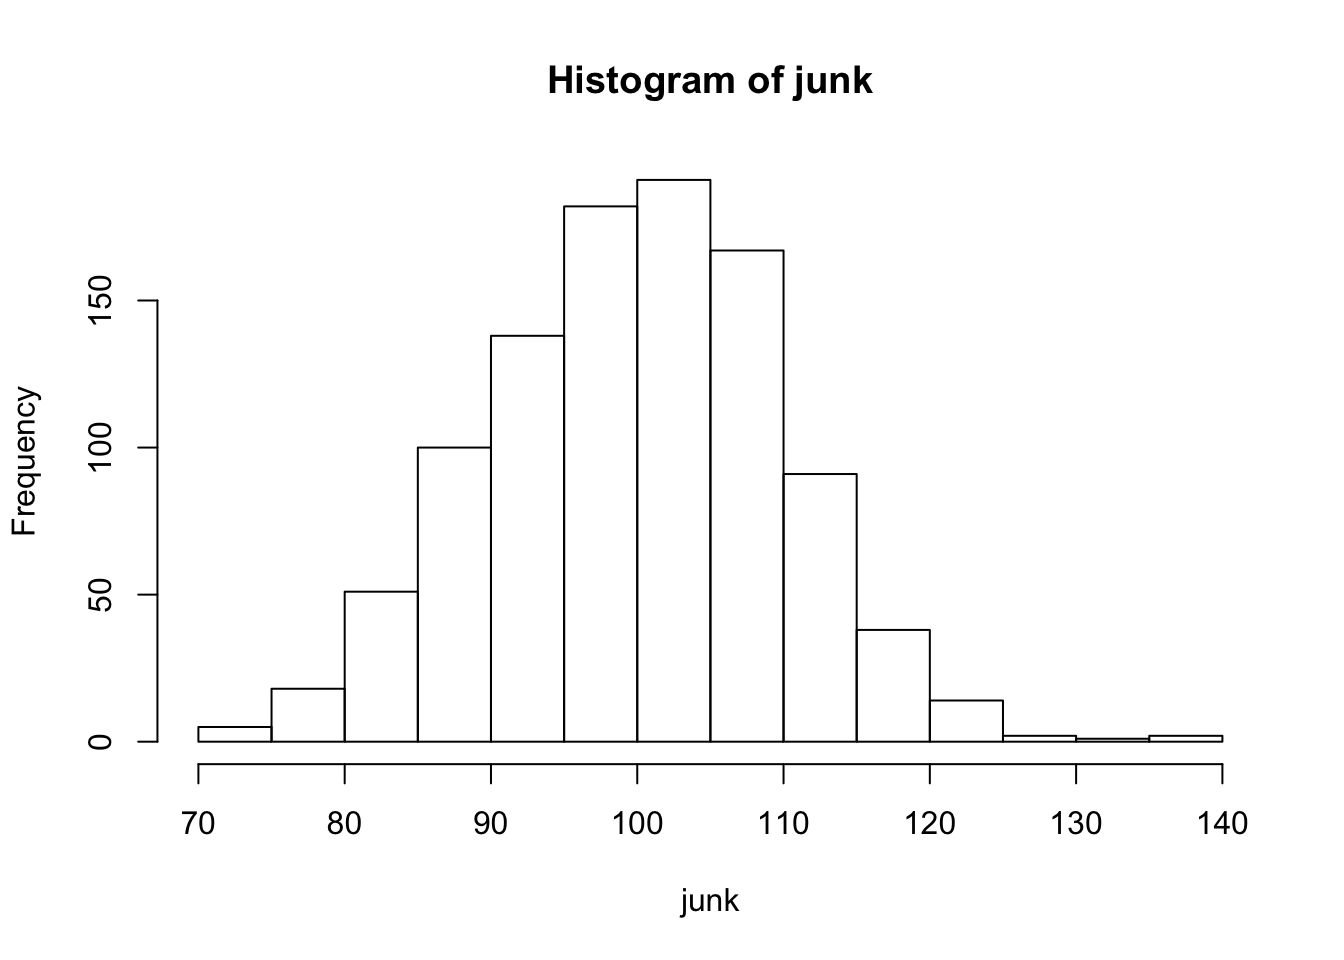
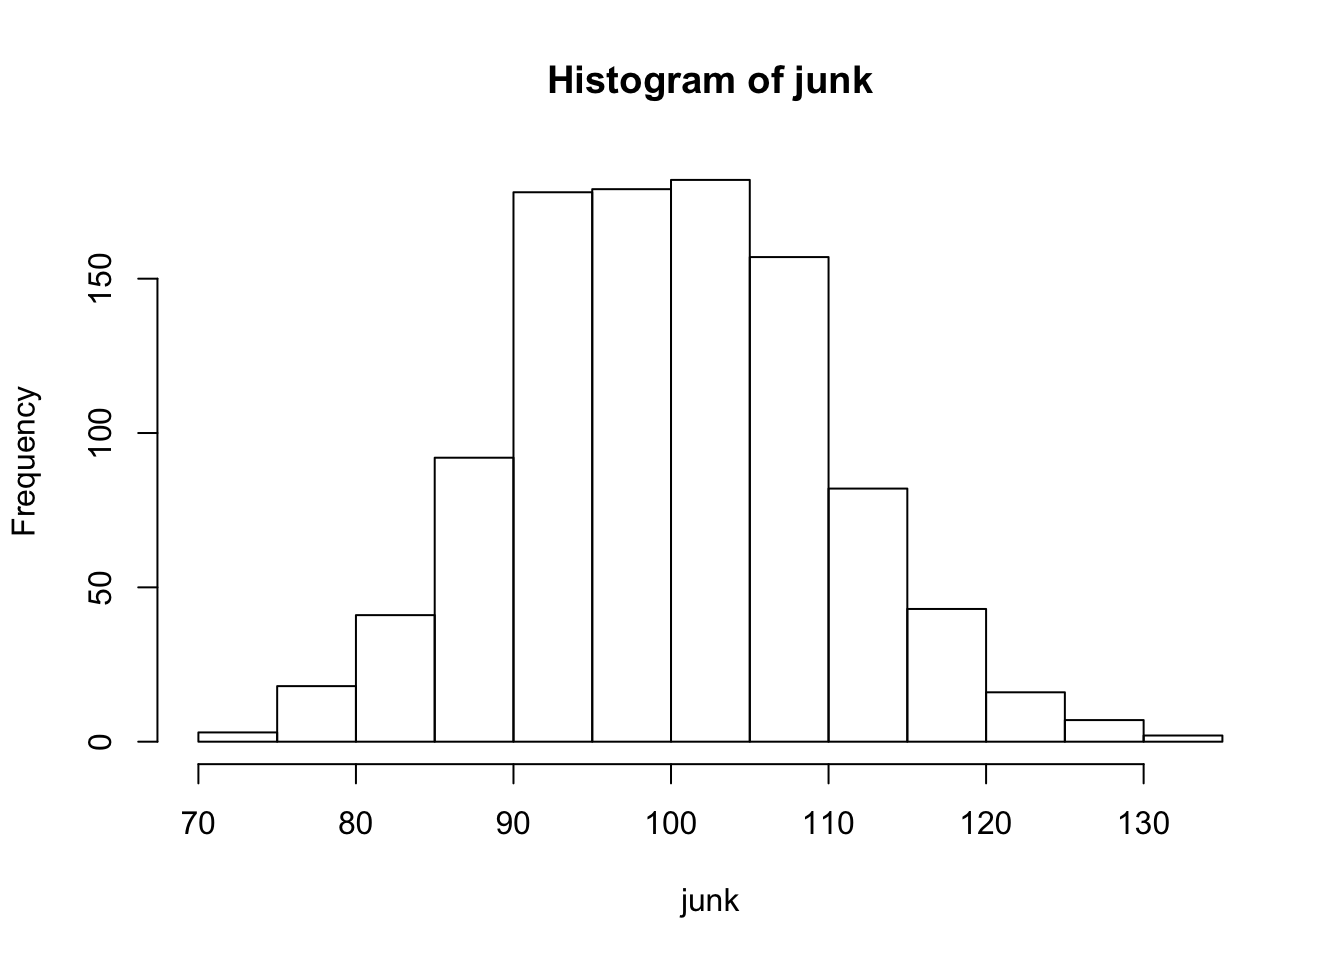
tweaks

diff --git a/docs/2017/02/24/junk/index.html b/docs/2017/02/24/junk/index.html
@@ -6,8 +6,8 @@
 <meta name="generator" content="Hugo 0.18.1" />
 
 
-<title>Junk - Lithium Theme</title>
-<meta property="og:title" content="Junk - Lithium Theme">
+<title>Junk - Alan&#39;s WebPage</title>
+<meta property="og:title" content="Junk - Alan&#39;s WebPage">
 
 
 
@@ -35,8 +35,8 @@
       <header class="header">
         <nav class="nav">
   <a href="../../../../" class="nav-logo">
-    <img src="../../../../images/logo.png"
-         width="50"
+    <img src="../../../../images/Alan.png"
+         width="40"
          height="50"
          alt="Logo">
   </a>
@@ -71,9 +71,9 @@
     <div class="article-content">
       <pre class="r"><code>junk &lt;- rnorm(1000, 100, 10)
 mean(junk)</code></pre>
-<pre><code>## [1] 99.88449</code></pre>
+<pre><code>## [1] 99.9047</code></pre>
 <pre class="r"><code>sd(junk)</code></pre>
-<pre><code>## [1] 10.00316</code></pre>
+<pre><code>## [1] 9.912678</code></pre>
 <pre class="r"><code>hist(junk)</code></pre>
 <p><img src="../../../../post/2017-02-24-junk_files/figure-html/unnamed-chunk-1-1.png" width="672" /></p>
 

diff --git a/docs/tags/r-markdown/index.html b/docs/tags/r-markdown/index.html
@@ -6,8 +6,8 @@
 <meta name="generator" content="Hugo 0.18.1" />
 
 
-<title>R Markdown - Lithium Theme</title>
-<meta property="og:title" content="R Markdown - Lithium Theme">
+<title>R Markdown - Alan&#39;s WebPage</title>
+<meta property="og:title" content="R Markdown - Alan&#39;s WebPage">
 
 
 
@@ -17,7 +17,7 @@
 
 
 
-<link href="../../tags/r-markdown/index.xml" rel="alternate" type="application/rss+xml" title="Lithium Theme" />
+<link href="../../tags/r-markdown/index.xml" rel="alternate" type="application/rss+xml" title="Alan&#39;s WebPage" />
 
 
 
@@ -32,8 +32,8 @@
       <header class="header">
         <nav class="nav">
   <a href="../../" class="nav-logo">
-    <img src="../../images/logo.png"
-         width="50"
+    <img src="../../images/Alan.png"
+         width="40"
          height="50"
          alt="Logo">
   </a>

diff --git a/docs/tags/regression/index.html b/docs/tags/regression/index.html
@@ -6,8 +6,8 @@
 <meta name="generator" content="Hugo 0.18.1" />
 
 
-<title>Regression - Lithium Theme</title>
-<meta property="og:title" content="Regression - Lithium Theme">
+<title>Regression - Alan&#39;s WebPage</title>
+<meta property="og:title" content="Regression - Alan&#39;s WebPage">
 
 
 
@@ -17,7 +17,7 @@
 
 
 
-<link href="../../tags/regression/index.xml" rel="alternate" type="application/rss+xml" title="Lithium Theme" />
+<link href="../../tags/regression/index.xml" rel="alternate" type="application/rss+xml" title="Alan&#39;s WebPage" />
 
 
 
@@ -32,8 +32,8 @@
       <header class="header">
         <nav class="nav">
   <a href="../../" class="nav-logo">
-    <img src="../../images/logo.png"
-         width="50"
+    <img src="../../images/Alan.png"
+         width="40"
          height="50"
          alt="Logo">
   </a>

diff --git a/docs/tags/plot/index.html b/docs/tags/plot/index.html
@@ -6,8 +6,8 @@
 <meta name="generator" content="Hugo 0.18.1" />
 
 
-<title>Plot - Lithium Theme</title>
-<meta property="og:title" content="Plot - Lithium Theme">
+<title>Plot - Alan&#39;s WebPage</title>
+<meta property="og:title" content="Plot - Alan&#39;s WebPage">
 
 
 
@@ -17,7 +17,7 @@
 
 
 
-<link href="../../tags/plot/index.xml" rel="alternate" type="application/rss+xml" title="Lithium Theme" />
+<link href="../../tags/plot/index.xml" rel="alternate" type="application/rss+xml" title="Alan&#39;s WebPage" />
 
 
 
@@ -32,8 +32,8 @@
       <header class="header">
         <nav class="nav">
   <a href="../../" class="nav-logo">
-    <img src="../../images/logo.png"
-         width="50"
+    <img src="../../images/Alan.png"
+         width="40"
          height="50"
          alt="Logo">
   </a>

diff --git a/docs/categories/r/index.html b/docs/categories/r/index.html
@@ -6,8 +6,8 @@
 <meta name="generator" content="Hugo 0.18.1" />
 
 
-<title>R - Lithium Theme</title>
-<meta property="og:title" content="R - Lithium Theme">
+<title>R - Alan&#39;s WebPage</title>
+<meta property="og:title" content="R - Alan&#39;s WebPage">
 
 
 
@@ -17,7 +17,7 @@
 
 
 
-<link href="../../categories/r/index.xml" rel="alternate" type="application/rss+xml" title="Lithium Theme" />
+<link href="../../categories/r/index.xml" rel="alternate" type="application/rss+xml" title="Alan&#39;s WebPage" />
 
 
 
@@ -32,8 +32,8 @@
       <header class="header">
         <nav class="nav">
   <a href="../../" class="nav-logo">
-    <img src="../../images/logo.png"
-         width="50"
+    <img src="../../images/Alan.png"
+         width="40"
          height="50"
          alt="Logo">
   </a>

diff --git a/docs/post/index.html b/docs/post/index.html
@@ -6,8 +6,8 @@
 <meta name="generator" content="Hugo 0.18.1" />
 
 
-<title>Posts - Lithium Theme</title>
-<meta property="og:title" content="Posts - Lithium Theme">
+<title>Posts - Alan&#39;s WebPage</title>
+<meta property="og:title" content="Posts - Alan&#39;s WebPage">
 
 
 
@@ -17,7 +17,7 @@
 
 
 
-<link href="../post/index.xml" rel="alternate" type="application/rss+xml" title="Lithium Theme" />
+<link href="../post/index.xml" rel="alternate" type="application/rss+xml" title="Alan&#39;s WebPage" />
 
 
 
@@ -32,8 +32,8 @@
       <header class="header">
         <nav class="nav">
   <a href="../" class="nav-logo">
-    <img src="../images/logo.png"
-         width="50"
+    <img src="../images/Alan.png"
+         width="40"
          height="50"
          alt="Logo">
   </a>

diff --git a/docs/index.html b/docs/index.html
@@ -6,8 +6,8 @@
 <meta name="generator" content="Hugo 0.18.1" />
 
 
-<title>Lithium Theme</title>
-<meta property="og:title" content="Lithium Theme">
+<title>Alan&#39;s WebPage</title>
+<meta property="og:title" content="Alan&#39;s WebPage">
 <meta property="og:type" content="website">
 
 
@@ -18,7 +18,7 @@
 
 
 
-<link href="./index.xml" rel="alternate" type="application/rss+xml" title="Lithium Theme" />
+<link href="./index.xml" rel="alternate" type="application/rss+xml" title="Alan&#39;s WebPage" />
 
 
 
@@ -33,8 +33,8 @@
       <header class="header">
         <nav class="nav">
   <a href="./" class="nav-logo">
-    <img src="./images/logo.png"
-         width="50"
+    <img src="./images/Alan.png"
+         width="40"
          height="50"
          alt="Logo">
   </a>

diff --git a/docs/2016/12/30/a-plain-markdown-post/index.html b/docs/2016/12/30/a-plain-markdown-post/index.html
@@ -6,8 +6,8 @@
 <meta name="generator" content="Hugo 0.18.1" />
 
 
-<title>A Plain Markdown Post - Lithium Theme</title>
-<meta property="og:title" content="A Plain Markdown Post - Lithium Theme">
+<title>A Plain Markdown Post - Alan&#39;s WebPage</title>
+<meta property="og:title" content="A Plain Markdown Post - Alan&#39;s WebPage">
 
 
 
@@ -35,8 +35,8 @@
       <header class="header">
         <nav class="nav">
   <a href="../../../../" class="nav-logo">
-    <img src="../../../../images/logo.png"
-         width="50"
+    <img src="../../../../images/Alan.png"
+         width="40"
          height="50"
          alt="Logo">
   </a>

diff --git a/docs/2015/07/23/hello-r-markdown/index.html b/docs/2015/07/23/hello-r-markdown/index.html
@@ -6,8 +6,8 @@
 <meta name="generator" content="Hugo 0.18.1" />
 
 
-<title>Hello R Markdown - Lithium Theme</title>
-<meta property="og:title" content="Hello R Markdown - Lithium Theme">
+<title>Hello R Markdown - Alan&#39;s WebPage</title>
+<meta property="og:title" content="Hello R Markdown - Alan&#39;s WebPage">
 
 
 
@@ -35,8 +35,8 @@
       <header class="header">
         <nav class="nav">
   <a href="../../../../" class="nav-logo">
-    <img src="../../../../images/logo.png"
-         width="50"
+    <img src="../../../../images/Alan.png"
+         width="40"
          height="50"
          alt="Logo">
   </a>

diff --git a/docs/2015/01/01/lorem-ipsum/index.html b/docs/2015/01/01/lorem-ipsum/index.html
@@ -6,8 +6,8 @@
 <meta name="generator" content="Hugo 0.18.1" />
 
 
-<title>Lorem Ipsum - Lithium Theme</title>
-<meta property="og:title" content="Lorem Ipsum - Lithium Theme">
+<title>Lorem Ipsum - Alan&#39;s WebPage</title>
+<meta property="og:title" content="Lorem Ipsum - Alan&#39;s WebPage">
 
 
 
@@ -30,8 +30,8 @@
       <header class="header">
         <nav class="nav">
   <a href="../../../../" class="nav-logo">
-    <img src="../../../../images/logo.png"
-         width="50"
+    <img src="../../../../images/Alan.png"
+         width="40"
          height="50"
          alt="Logo">
   </a>

diff --git a/docs/2017/03/14/histograms/index.html b/docs/2017/03/14/histograms/index.html
@@ -6,8 +6,8 @@
 <meta name="generator" content="Hugo 0.18.1" />
 
 
-<title>Histograms - Lithium Theme</title>
-<meta property="og:title" content="Histograms - Lithium Theme">
+<title>Histograms - Alan&#39;s WebPage</title>
+<meta property="og:title" content="Histograms - Alan&#39;s WebPage">
 
 
 
@@ -35,8 +35,8 @@
       <header class="header">
         <nav class="nav">
   <a href="../../../../" class="nav-logo">
-    <img src="../../../../images/logo.png"
-         width="50"
+    <img src="../../../../images/Alan.png"
+         width="40"
          height="50"
          alt="Logo">
   </a>

diff --git a/docs/2017/02/24/more-junk/index.html b/docs/2017/02/24/more-junk/index.html
@@ -6,8 +6,8 @@
 <meta name="generator" content="Hugo 0.18.1" />
 
 
-<title>More Junk - Lithium Theme</title>
-<meta property="og:title" content="More Junk - Lithium Theme">
+<title>More Junk - Alan&#39;s WebPage</title>
+<meta property="og:title" content="More Junk - Alan&#39;s WebPage">
 
 
 
@@ -35,8 +35,8 @@
       <header class="header">
         <nav class="nav">
   <a href="../../../../" class="nav-logo">
-    <img src="../../../../images/logo.png"
-         width="50"
+    <img src="../../../../images/Alan.png"
+         width="40"
          height="50"
          alt="Logo">
   </a>
